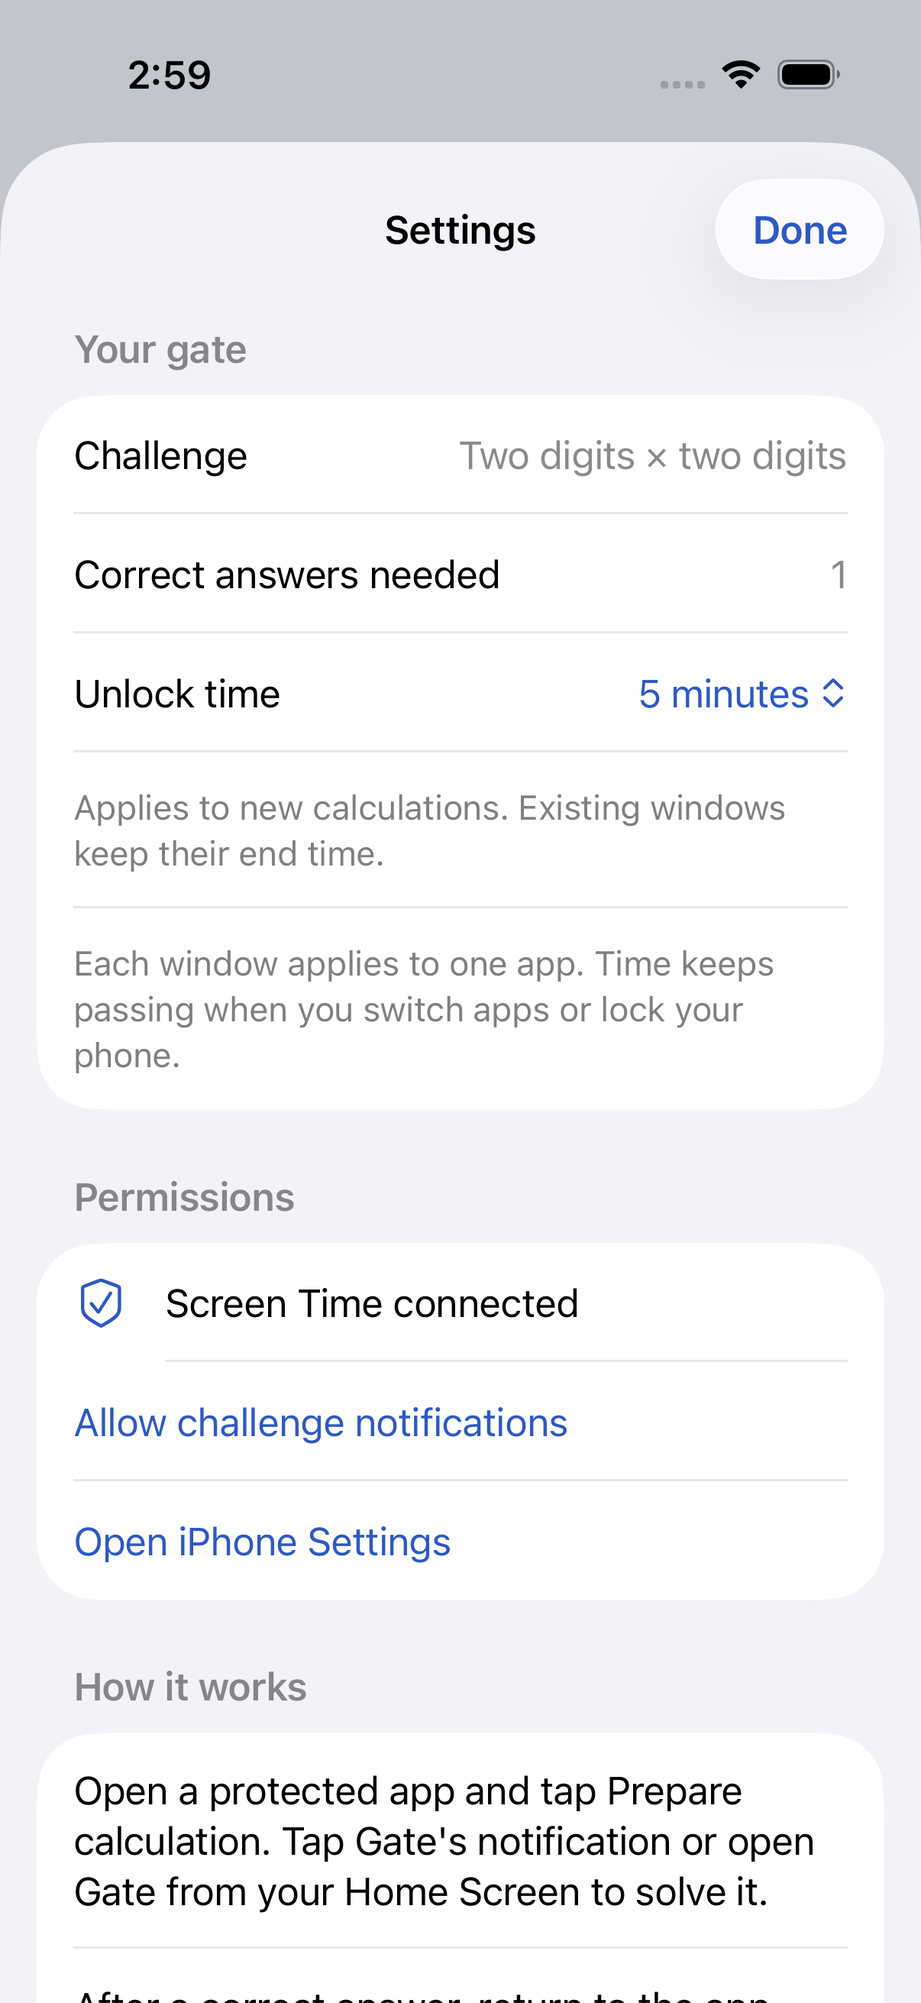
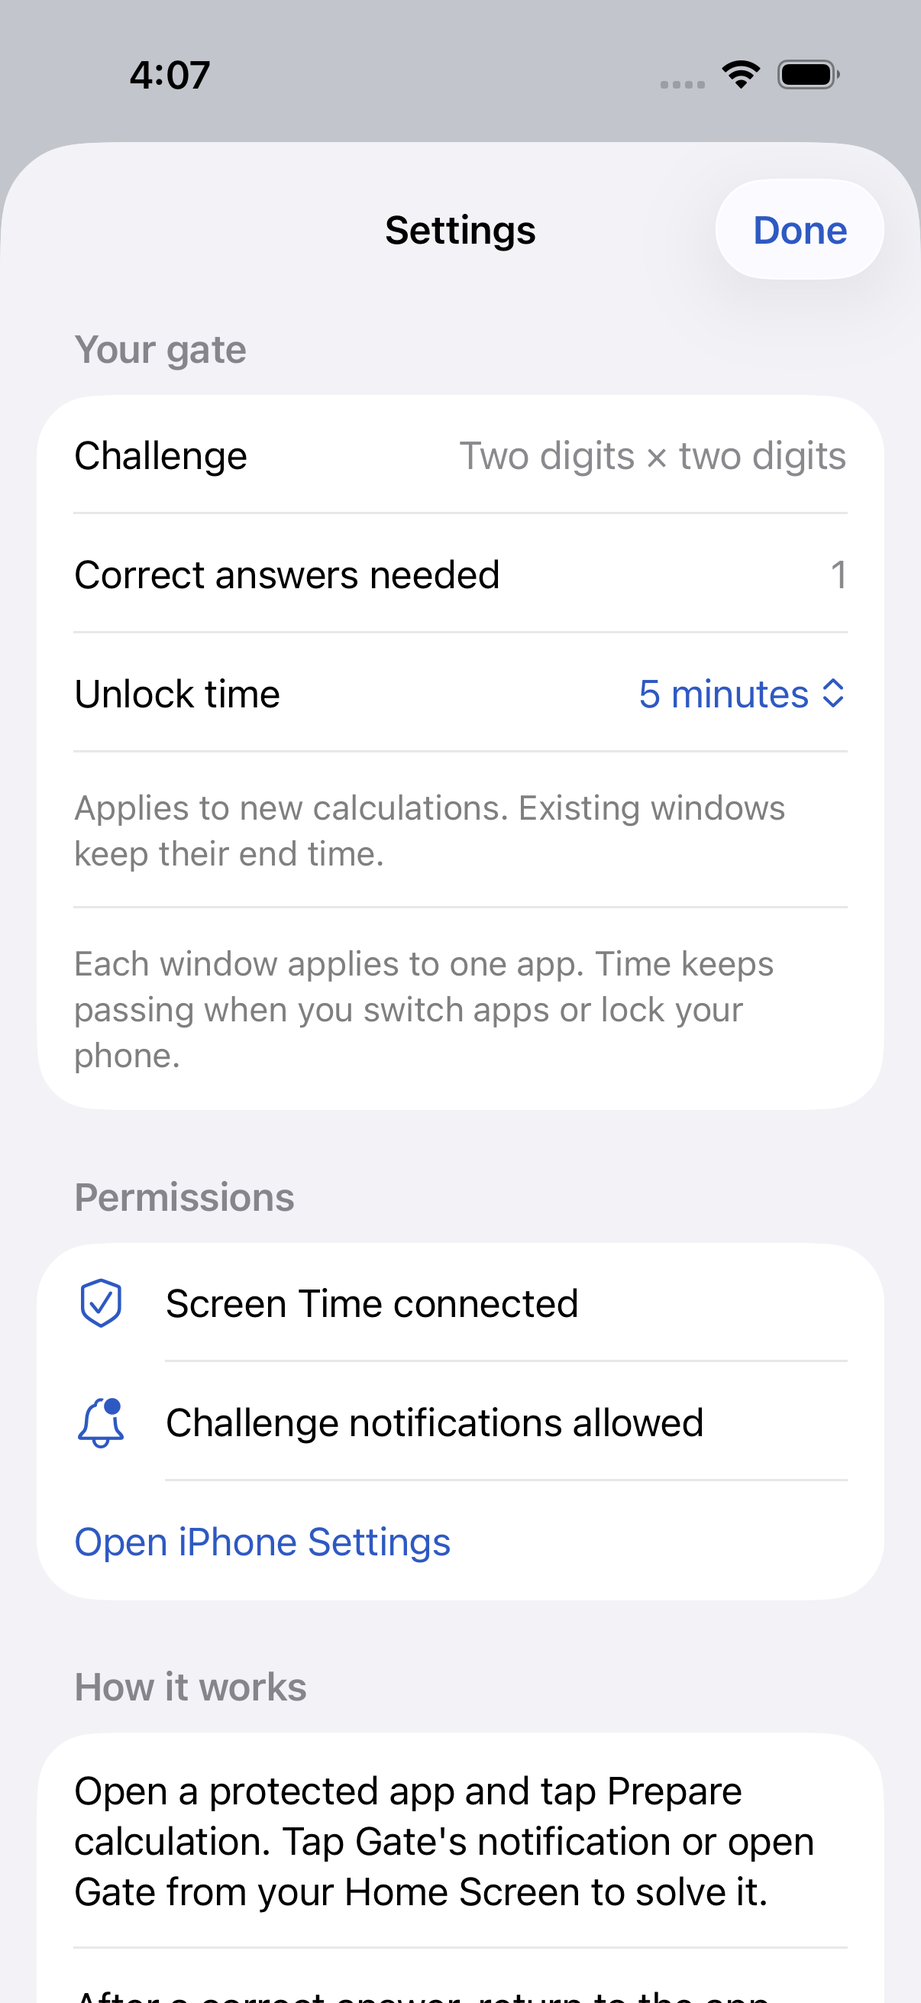
fix(notifications): handle permission state and settings handoff

diff --git a/App/GateModel.swift b/App/GateModel.swift
@@ -25,7 +25,10 @@ final class GateModel: ObservableObject {
     @Published var errorMessage: String?
     @Published var challenge: ChallengeSession?
     @Published var selection = FamilyActivitySelection()
+    @Published private(set) var notificationAuthorization: UNAuthorizationStatus?
+    @Published private(set) var isUpdatingNotifications = false
     let isDemo: Bool
+    private let testsNotifications: Bool
     private var service: GateService?
     private let demoApps = [
         AppRow(id: UUID(uuidString: "11111111-1111-1111-1111-111111111111")!, token: nil, demoName: "Rednote"),
@@ -35,11 +38,15 @@ final class GateModel: ObservableObject {
     init() {
         #if DEBUG
         isDemo = ProcessInfo.processInfo.arguments.contains("--demo")
+        testsNotifications = isDemo && ProcessInfo.processInfo.arguments.contains("--uitesting")
+            && ProcessInfo.processInfo.arguments.contains("--test-notifications")
         #else
         isDemo = false
+        testsNotifications = false
         #endif
         if isDemo {
             authorized = true
+            if !testsNotifications { notificationAuthorization = .authorized }
             if ProcessInfo.processInfo.arguments.contains("--challenge") { beginChallenge(for: demoApps[0]) }
         } else {
             do { service = try GateService() }
@@ -53,6 +60,13 @@ final class GateModel: ObservableObject {
     }
 
     var unlockDuration: UnlockDuration { state.unlockDuration }
+
+    var usesNotificationHandoff: Bool { testsNotifications || !GateHandoff.opensAppDirectly }
+    var canManageNotifications: Bool { !isDemo || testsNotifications }
+
+    var needsNotificationPermission: Bool {
+        usesNotificationHandoff && (notificationAuthorization == .notDetermined || notificationAuthorization == .denied)
+    }
 
     func setUnlockDuration(_ duration: UnlockDuration) {
         do {
@@ -90,14 +104,42 @@ final class GateModel: ObservableObject {
             try await AuthorizationCenter.shared.requestAuthorization(for: .individual)
             if service == nil { service = try GateService() }
             refresh()
+            await refreshNotifications()
         } catch { errorMessage = error.localizedDescription }
     }
 
+    func refreshNotifications() async {
+        await updateNotifications(requestIfNeeded: authorized, openSettings: false)
+    }
+
     func allowNotifications() async {
-        do {
-            let allowed = try await UNUserNotificationCenter.current().requestAuthorization(options: [.alert, .sound])
-            if !allowed { errorMessage = "Notifications are off. You can enable them in Settings, or open Gate from your Home Screen after preparing a calculation." }
-        } catch { errorMessage = error.localizedDescription }
+        await updateNotifications(requestIfNeeded: true, openSettings: true)
+    }
+
+    private func updateNotifications(requestIfNeeded: Bool, openSettings: Bool) async {
+        guard usesNotificationHandoff, !isUpdatingNotifications, canManageNotifications else { return }
+        // Scene activation can race the first prompt or a button tap. Only one request may run.
+        isUpdatingNotifications = true
+        defer { isUpdatingNotifications = false }
+        let center = UNUserNotificationCenter.current()
+        notificationAuthorization = await center.notificationSettings().authorizationStatus
+        if notificationAuthorization == .notDetermined {
+            guard requestIfNeeded else { return }
+            do {
+                _ = try await center.requestAuthorization(options: [.alert, .sound])
+            } catch { errorMessage = error.localizedDescription }
+            notificationAuthorization = await center.notificationSettings().authorizationStatus
+            // Declining the first prompt must not immediately send someone to Settings.
+            return
+        }
+        guard openSettings else { return }
+        // iOS never repeats a denied prompt. This URL opens this app's notification page.
+        guard let url = URL(string: UIApplication.openNotificationSettingsURLString) else { return }
+        let opened = await UIApplication.shared.open(url)
+        if !opened, let fallback = URL(string: UIApplication.openSettingsURLString) {
+            let openedFallback = await UIApplication.shared.open(fallback)
+            if !openedFallback { errorMessage = "Couldn't open iPhone Settings. Open Settings and find Gate to change notification permissions." }
+        }
     }
 
     func saveSelection(_ newSelection: FamilyActivitySelection) -> Bool {

diff --git a/UITests/GateUITests.swift b/UITests/GateUITests.swift
@@ -2,6 +2,53 @@ import XCTest
 
 final class GateUITests: XCTestCase {
     @MainActor
+    func testNotificationPermissionAndSettingsHandoff() throws {
+        let app = XCUIApplication()
+        app.launchArguments = ["--demo", "--uitesting", "--test-notifications"]
+        app.launch()
+        let springboard = XCUIApplication(bundleIdentifier: "com.apple.springboard")
+        // A fresh test installation exercises either decision; reruns reuse the OS's saved choice.
+        let prompt = springboard.alerts.firstMatch
+        if prompt.waitForExistence(timeout: 5) {
+            let screenshot = XCTAttachment(screenshot: springboard.screenshot())
+            screenshot.name = "First notification permission request"
+            screenshot.lifetime = .keepAlways
+            add(screenshot)
+            let grantPermission = ProcessInfo.processInfo.environment["GATE_NOTIFICATION_TEST_RESPONSE"] == "allow"
+            if grantPermission { prompt.buttons["Allow"].tap() }
+            else { prompt.buttons.matching(NSPredicate(format: "label CONTAINS[c] 'Allow' AND label != 'Allow'")).firstMatch.tap() }
+            let guidance = app.staticTexts["notification-guidance"]
+            let expected = NSPredicate(format: "exists == %@", NSNumber(value: !grantPermission))
+            expectation(for: expected, evaluatedWith: guidance)
+            waitForExpectations(timeout: 5)
+            XCTAssertEqual(app.state, .runningForeground)
+            XCTAssertFalse(app.alerts["Gate needs attention"].exists)
+        }
+        let needsPermission = app.staticTexts["notification-guidance"].exists
+        if needsPermission {
+            let button = app.buttons["allow-notifications"]
+            if !button.isHittable { app.swipeUp() }
+            let denied = XCTAttachment(screenshot: app.screenshot())
+            denied.name = "Notifications disabled guidance"
+            denied.lifetime = .keepAlways
+            add(denied)
+            button.tap()
+        } else {
+            XCTAssertFalse(app.buttons["allow-notifications"].exists)
+            app.buttons["settings"].tap()
+            XCTAssertEqual(app.buttons["manage-notifications"].label, "Notification settings")
+            app.buttons["manage-notifications"].tap()
+        }
+        let settings = XCUIApplication(bundleIdentifier: "com.apple.Preferences")
+        XCTAssertTrue(settings.wait(for: .runningForeground, timeout: 5))
+        XCTAssertFalse(springboard.alerts.firstMatch.exists)
+        // The simulator opens Settings but does not expose per-app notification toggles.
+        app.activate()
+        if !needsPermission { app.buttons["Done"].tap() }
+        XCTAssertEqual(app.staticTexts["notification-guidance"].exists, needsPermission)
+    }
+
+    @MainActor
     func testConfiguredDurationReachesChallengeAndLeavesExistingWindowAlone() throws {
         let app = XCUIApplication()
         app.launchArguments = ["--demo", "--uitesting"]

diff --git a/App/HomeView.swift b/App/HomeView.swift
@@ -20,7 +20,7 @@ struct HomeView: View {
                     if !model.authorized { authorization }
                     if model.apps.isEmpty { emptySelection }
                     else { appList }
-                    if !GateHandoff.opensAppDirectly && model.authorized && !model.isDemo {
+                    if model.authorized && model.needsNotificationPermission {
                         handoffHelp
                     }
                     Text("A little effort. A deliberate choice.")
@@ -187,10 +187,15 @@ struct HomeView: View {
     private var handoffHelp: some View {
         VStack(alignment: .leading, spacing: 10) {
             Label("Opening a calculation", systemImage: "bell.badge").font(.subheadline.weight(.semibold))
-            Text("On the blocked screen, tap Prepare calculation. Then tap Gate's notification, or open Gate from your Home Screen.")
+                .accessibilityIdentifier("notification-guidance")
+            Text(model.notificationAuthorization == .denied
+                 ? "Notifications are off. Enable them in iPhone Settings to open calculations from a notification. You can also open Gate from your Home Screen."
+                 : "Allow notifications so you can tap Prepare calculation on a blocked app, then tap Gate's notification to solve it. You can also open Gate from your Home Screen.")
                 .font(.subheadline).foregroundStyle(GateTheme.muted)
             Button("Allow challenge notifications") { Task { await model.allowNotifications() } }
                 .font(.subheadline.weight(.semibold)).padding(.vertical, 6)
+                .disabled(model.isUpdatingNotifications)
+                .accessibilityIdentifier("allow-notifications")
         }
     }
 

diff --git a/App/SettingsView.swift b/App/SettingsView.swift
@@ -31,8 +31,16 @@ struct SettingsView: View {
                     if !model.authorized {
                         Button("Allow Screen Time access") { Task { await model.authorize() } }
                     }
-                    if !GateHandoff.opensAppDirectly {
-                        Button("Allow challenge notifications") { Task { await model.allowNotifications() } }
+                    if model.usesNotificationHandoff, model.notificationAuthorization != nil {
+                        if !model.canManageNotifications {
+                            Label("Challenge notifications allowed", systemImage: "bell.badge")
+                        } else {
+                            Button(model.needsNotificationPermission ? "Allow challenge notifications" : "Notification settings") {
+                                Task { await model.allowNotifications() }
+                            }
+                            .disabled(model.isUpdatingNotifications)
+                            .accessibilityIdentifier("manage-notifications")
+                        }
                     }
                     Button("Open iPhone Settings") {
                         if let url = URL(string: UIApplication.openSettingsURLString) { UIApplication.shared.open(url) }

diff --git a/App/GateApp.swift b/App/GateApp.swift
@@ -35,8 +35,12 @@ struct GateApp: App {
         WindowGroup {
             HomeView(model: model)
                 .tint(GateTheme.blue)
+                .task { await model.refreshNotifications() }
                 .onChange(of: scenePhase) { _, phase in
-                    if phase == .active { model.refresh() }
+                    if phase == .active {
+                        model.refresh()
+                        Task { await model.refreshNotifications() }
+                    }
                 }
                 .onReceive(NotificationCenter.default.publisher(for: .gateChallengeRequested)) { _ in model.refresh() }
                 .onOpenURL { url in

diff --git a/docs/design-log.md b/docs/design-log.md
@@ -75,3 +75,15 @@ The README embeds the existing, inspected simulator screenshots in a three-step 
 **Tests and an accessibility finding.** Added coverage for every supported duration, schedule bounds across midnight/DST, duration decoding, migration from old state, and preference persistence without rewriting grants. An iOS test checks `DeviceActivitySchedule.nextInterval` against the desired expiry for every duration without registering monitors or requesting authorization. These state/API checks live alongside UI tests because the persisted model imports iOS-only Family Controls types. The new interaction test changes to five minutes, solves, changes to thirty minutes, verifies the original countdown remains short, and opens a new thirty-minute calculation. Its first runs exposed that the home countdown's custom accessibility label hid the remaining time and provided an empty value. Added an explicit timer `Text` as the accessibility value and made the test read that value.
 
 **Verified.** All 13 core tests and all 6 simulator tests (3 state/API checks and 3 UI flows) pass. Simulator testing builds the app and all three extensions. A signed Debug iPhone build of all four targets also passes with the existing local signing configuration. Only Xcode's informational App Intents metadata-skipped warnings remain. Inspected the Settings screenshot and saved it in `docs/screenshots/settings.png`; the README explains the new choices and their effect on existing windows. Whitespace, README local links, and a scan of changed files for private signing identifiers/local paths pass. Physical-device enforcement, including expiry of the short windows, remains unverified.
+
+## 2026-09-08 — Notification permission guidance and Settings handoff
+
+**Behavior.** The home screen's Opening a calculation block now depends on the current notification authorization. It appears only for `.notDetermined` or `.denied`, after Screen Time authorization and only when the notification handoff is needed. Authorized, provisional, and ephemeral notification permissions hide it. Gate reads the OS status on first appearance, after Screen Time setup, and whenever it becomes active. It requests the first notification permission automatically after Screen Time setup; it never automatically opens Settings or requests again after denial. Both permission buttons open notification settings on a later tap when a decision already exists. The Settings screen offers Notification settings after permission is granted.
+
+**System APIs.** Apple's [authorization request documentation](https://developer.apple.com/documentation/usernotifications/unusernotificationcenter/requestauthorization(options:completionhandler:)) says only the first request shows a prompt. Read `UNUserNotificationCenter.notificationSettings()` rather than caching a Boolean in Gate's state file. Use [`UIApplication.openNotificationSettingsURLString`](https://developer.apple.com/documentation/uikit/uiapplication/opennotificationsettingsurlstring) for the app's notification page, with the general app-settings URL as a fallback if opening fails. Declining the initial prompt leaves the guidance visible without a second error alert or immediate Settings redirect. One in-flight guard prevents scene activation and button taps from starting overlapping permission requests.
+
+**Preview and tests.** Ordinary Debug preview uses a sample authorized status and requests no system permission. Only the explicit combination `--demo --uitesting --test-notifications` exercises real notification permission while keeping Screen Time enforcement in preview mode. The UI test uses the real system prompt and Settings app. Fresh, isolated test identifiers were used for both Allow and Don't Allow; `TEST_RUNNER_GATE_NOTIFICATION_TEST_RESPONSE=allow` selects Allow for that first request, while later runs reuse the OS decision.
+
+**Simulator limitation found.** The initial test expected Settings to expose an Allow Notifications switch and failed. Inspection showed that this simulator opens the Settings home screen and has no per-app notification toggle. Kept the public notification-settings URL; the test now checks actual Settings foregrounding, the absence of another permission prompt, and the current guidance after returning. Permission changes made in Settings must still be checked on a physical phone. The accepted and denied first-request paths can both be tested on fresh simulator installations.
+
+**Verified.** All 7 simulator tests pass (3 state/API tests and 4 UI flows), including a fresh Don't Allow response. A separate fresh installation passed the Allow path. Both builds use the real User Notifications API. Inspected the initial system prompt, home guidance after denial, and updated Settings screenshot; saved them under `docs/screenshots/`. Signed Debug iPhone build of all four targets passes with the existing local signing overrides. No Swift warnings; only Xcode's App Intents metadata-skipped messages. Whitespace, private-identifier scan, and README links pass. Core policy/storage code is unchanged, so the previously passing 13 core tests were not repeated. Physical-device notification toggling, shield handoff, and expiry remain open on the device checklist.

diff --git a/README.md b/README.md
@@ -51,6 +51,15 @@ Open **Settings → Unlock time** to choose **1, 3, 5, 10, 15, 30, or 60 minutes
 
 Notifications are optional. After answering, return to the app using the app switcher or Home Screen. The native flow requires a button tap; Gate does not silently redirect every app launch or install Shortcuts automations.
 
+On the notification-based flow, Gate asks for notification permission after Screen Time setup if you haven't answered before. **Opening a calculation** appears on the home screen only while permission is missing. Once allowed, that block disappears. If you deny permission or later turn notifications off, **Allow challenge notifications** opens iPhone Settings. Gate checks again when you return. You can also reach **Notification settings** from Gate's Settings after granting permission.
+
+<details>
+<summary>See notification setup</summary>
+<p>Simulator screenshots with sample apps: the first permission request, then guidance after denial. App blocking remains a preview.</p>
+<img src="docs/screenshots/notification-permission.png" width="300" alt="The iOS notification permission prompt shown over Gate's simulator preview">
+<img src="docs/screenshots/notifications-disabled.png" width="300" alt="Gate's home screen after notification permission is denied, with Opening a calculation guidance and an Allow challenge notifications button">
+</details>
+
 The project generator detects whether the selected SDK provides Apple's [`openParentalControlsApp`](https://developer.apple.com/documentation/managedsettings/shieldactionresponse/openparentalcontrolsapp) API. **Regenerate after switching or updating Xcode.** A newer phone alone cannot enable an API missing from the SDK used to build the app.
 
 ## Try it in the simulator
@@ -151,6 +160,8 @@ swift scripts/generate-icon.swift
 ```
 
 Core tests cover answer validation, every supported duration, per-app access, the expiry boundary, midnight/DST schedule dates, clock rollback, persistence, corruption, and concurrent writers. Simulator tests cover saved preferences and old-state compatibility, Apple's schedule date resolution, and UI flows for changing duration, wrong/correct answers, cancellation, and early locking. UI interactions use a deterministic calculation in an explicit Debug preview.
+
+The notification test adds `--test-notifications` to `--demo --uitesting` to exercise the real system prompt and Settings handoff while keeping app blocking in preview mode. Ordinary previews never request notification permission. The first test run denies the prompt by default; a fresh test installation with `TEST_RUNNER_GATE_NOTIFICATION_TEST_RESPONSE=allow` exercises granting it. Later runs reuse the OS's saved permission. Per-app notification toggles are unavailable in the tested simulator, so changing those settings and returning to Gate remains a physical-device check.
 
 | Directory | Purpose |
 | --- | --- |

diff --git a/docs/device-testing.md b/docs/device-testing.md
@@ -21,6 +21,11 @@ Simulator UI tests use an explicitly labeled preview. They never assert real blo
 | Direct handoff, compatible SDK + iOS 26.5+ | Solve button opens Gate for exactly the tapped app | Not run |
 | Fallback handoff | Prepare closes app; notification tap opens its challenge | Not run |
 | Notifications denied | Opening Gate manually still shows prepared challenge | Not run |
+| First notification request after Screen Time setup | System prompt appears once on notification-based builds; direct-opening builds do not request it | Not run |
+| Allow notification permission | Home's Opening a calculation block disappears | Not run |
+| Decline first notification request | Guidance remains; no immediate Settings redirect or extra error alert | Not run |
+| Tap Allow challenge notifications after denial | Opens Gate's notification settings instead of repeating the system prompt | Not run |
+| Turn notifications off/on in Settings, then return | Home guidance appears/disappears to match the latest permission | Not run |
 | Wrong answer | Shield remains; challenge explains retry | Not run |
 | Cancel or swipe challenge away | No grant or unshield operation occurs | Not run |
 | Change Settings → Unlock time, then relaunch Gate | Choice persists; a new calculation offers the chosen duration | Not run |
@@ -45,7 +50,7 @@ Record actual times for expiry, including any OS callback delay. Apple's minimum
 ## Verification recorded on 2026-09-08
 
 - Xcode 26.3 / iOS 26.2 SDK built the notification/manual handoff.
-- All 13 core tests, 3 simulator state/API tests, and 3 simulator UI flows passed, including configurable duration and old-state compatibility.
+- All 13 core tests, 3 simulator state/API tests, and 4 simulator UI flows passed, including configurable duration, old-state compatibility, and notification permission/Settings handoff. The notification test also passed with Allow on a separate fresh install. The simulator opens Settings but does not expose per-app notification toggles.
 - A signed Debug build succeeded with automatic development provisioning. The app and all three extensions contained Family Controls and a matching App Group in both signatures and provisioning profiles.
 - Physical-device enforcement has not been verified. The checklist above remains open.
 

diff --git a/docs/roadmap.md b/docs/roadmap.md
@@ -42,3 +42,12 @@ Whole-category blocking, website blocking, usage tracking, AI, cloud sync, and p
 - [x] Ignore generated projects, build outputs, credentials, and private development notes.
 - [x] Validate a clean checkout with generic identifiers and no local signing file.
 - [x] Prepare the public GitHub repository with an audited source and documentation set.
+
+## Notification permissions
+
+- [x] Ask once after Screen Time setup when the notification handoff is needed.
+- [x] Hide home guidance once notifications are authorized.
+- [x] Open notification settings from the permission button after denial.
+- [x] Refresh the OS permission on returning to Gate.
+- [x] Verify fresh Allow/Don't Allow prompts, conditional guidance, and Settings handoff in the simulator; inspect screenshots and build the signed iPhone app.
+- [ ] Verify toggling notification permission in Settings and returning on a physical iPhone.
